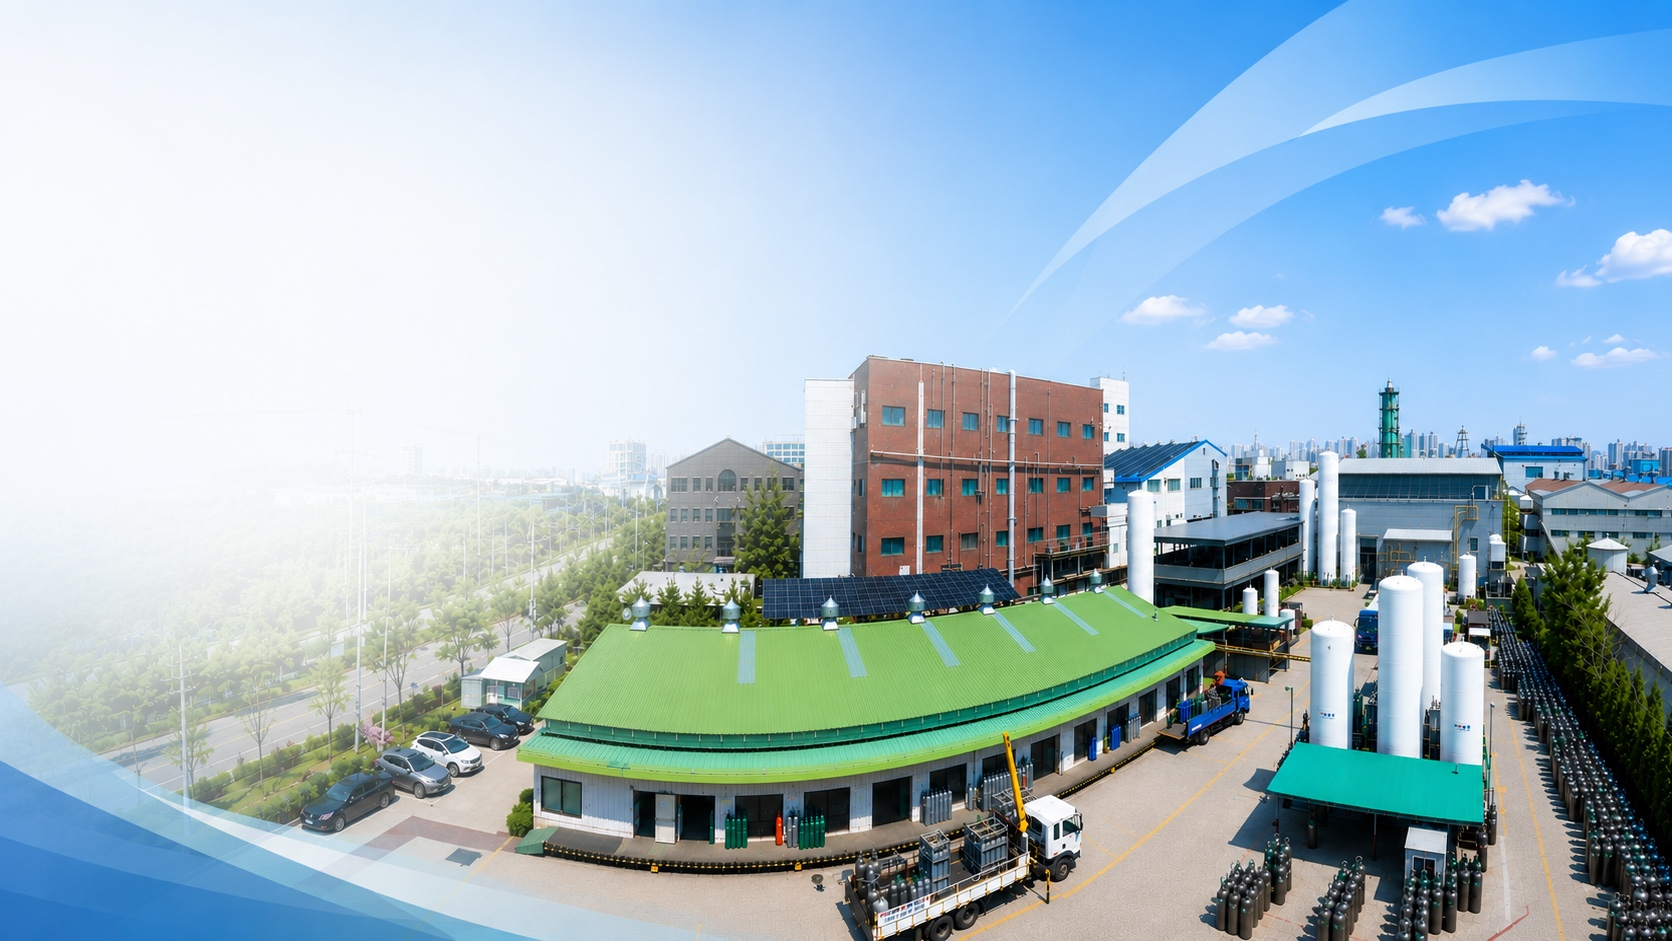
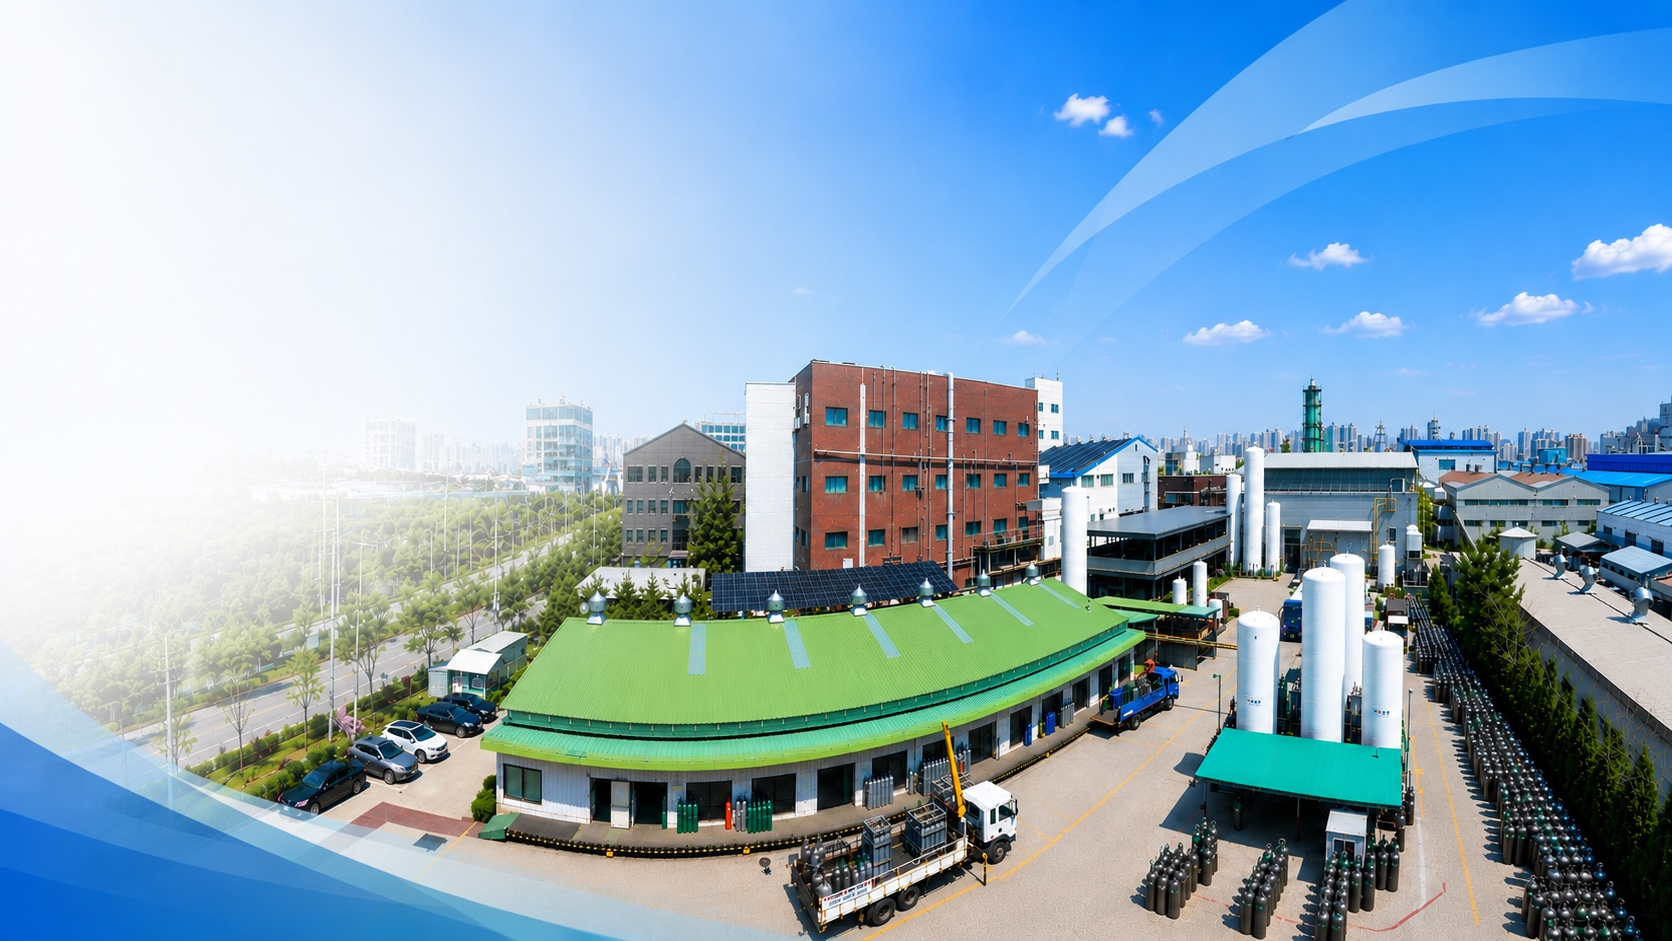
메인 회사소개: about 사진 새 파노라마로 교체(20260902d), '회사소개 더보기' 버튼을 카드 하단으로 이동

diff --git a/index.html b/index.html
@@ -111,7 +111,7 @@
     <section class="section" id="about-home">
       <div class="container">
         <div class="abouthero">
-          <img class="abouthero__bg" src="assets/images/site/about-plant.jpg?v=20260902c" alt="한국탄산화학㈜ 시흥공장 전경" loading="lazy">
+          <img class="abouthero__bg" src="assets/images/site/about-plant.jpg?v=20260902d" alt="한국탄산화학㈜ 시흥공장 전경" loading="lazy">
           <div class="abouthero__inner">
             <span class="abouthero__eyebrow" data-i18n="home.about.eyebrow">ABOUT US</span>
             <h2 class="abouthero__title">
@@ -137,7 +137,6 @@
                 <b>친환경·지속가능<br>경영 실천</b>
               </li>
             </ul>
-            <a class="btn btn--primary abouthero__more" href="company.html"><span data-i18n="home.about.more">회사소개 더보기</span> →</a>
           </div>
         </div>
         <ul class="introfeats about-home__feats">
@@ -158,6 +157,9 @@
             <b>기술 혁신</b><small>지속적인 R&D 투자</small>
           </li>
         </ul>
+        <div class="about-home__cta">
+          <a class="btn btn--primary about-home__more" href="company.html"><span data-i18n="home.about.more">회사소개 더보기</span> →</a>
+        </div>
       </div>
     </section>
 
